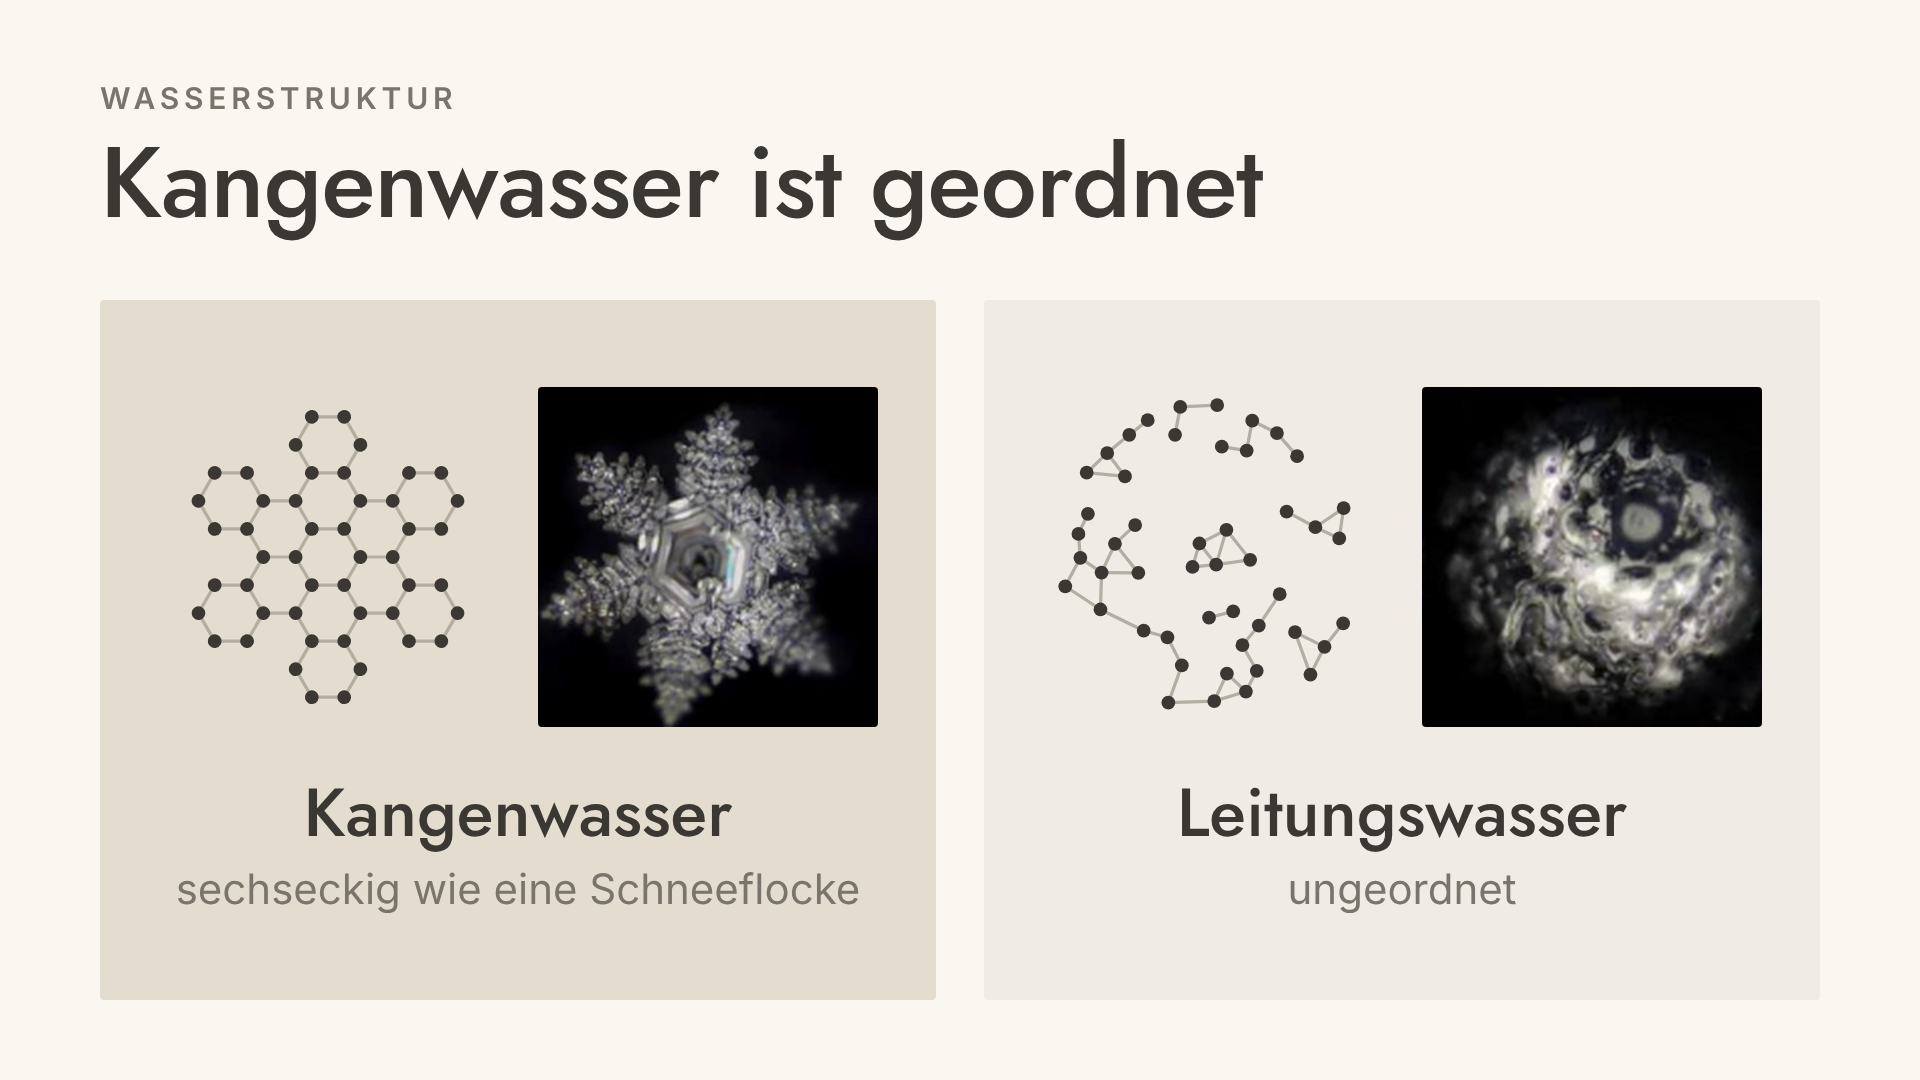
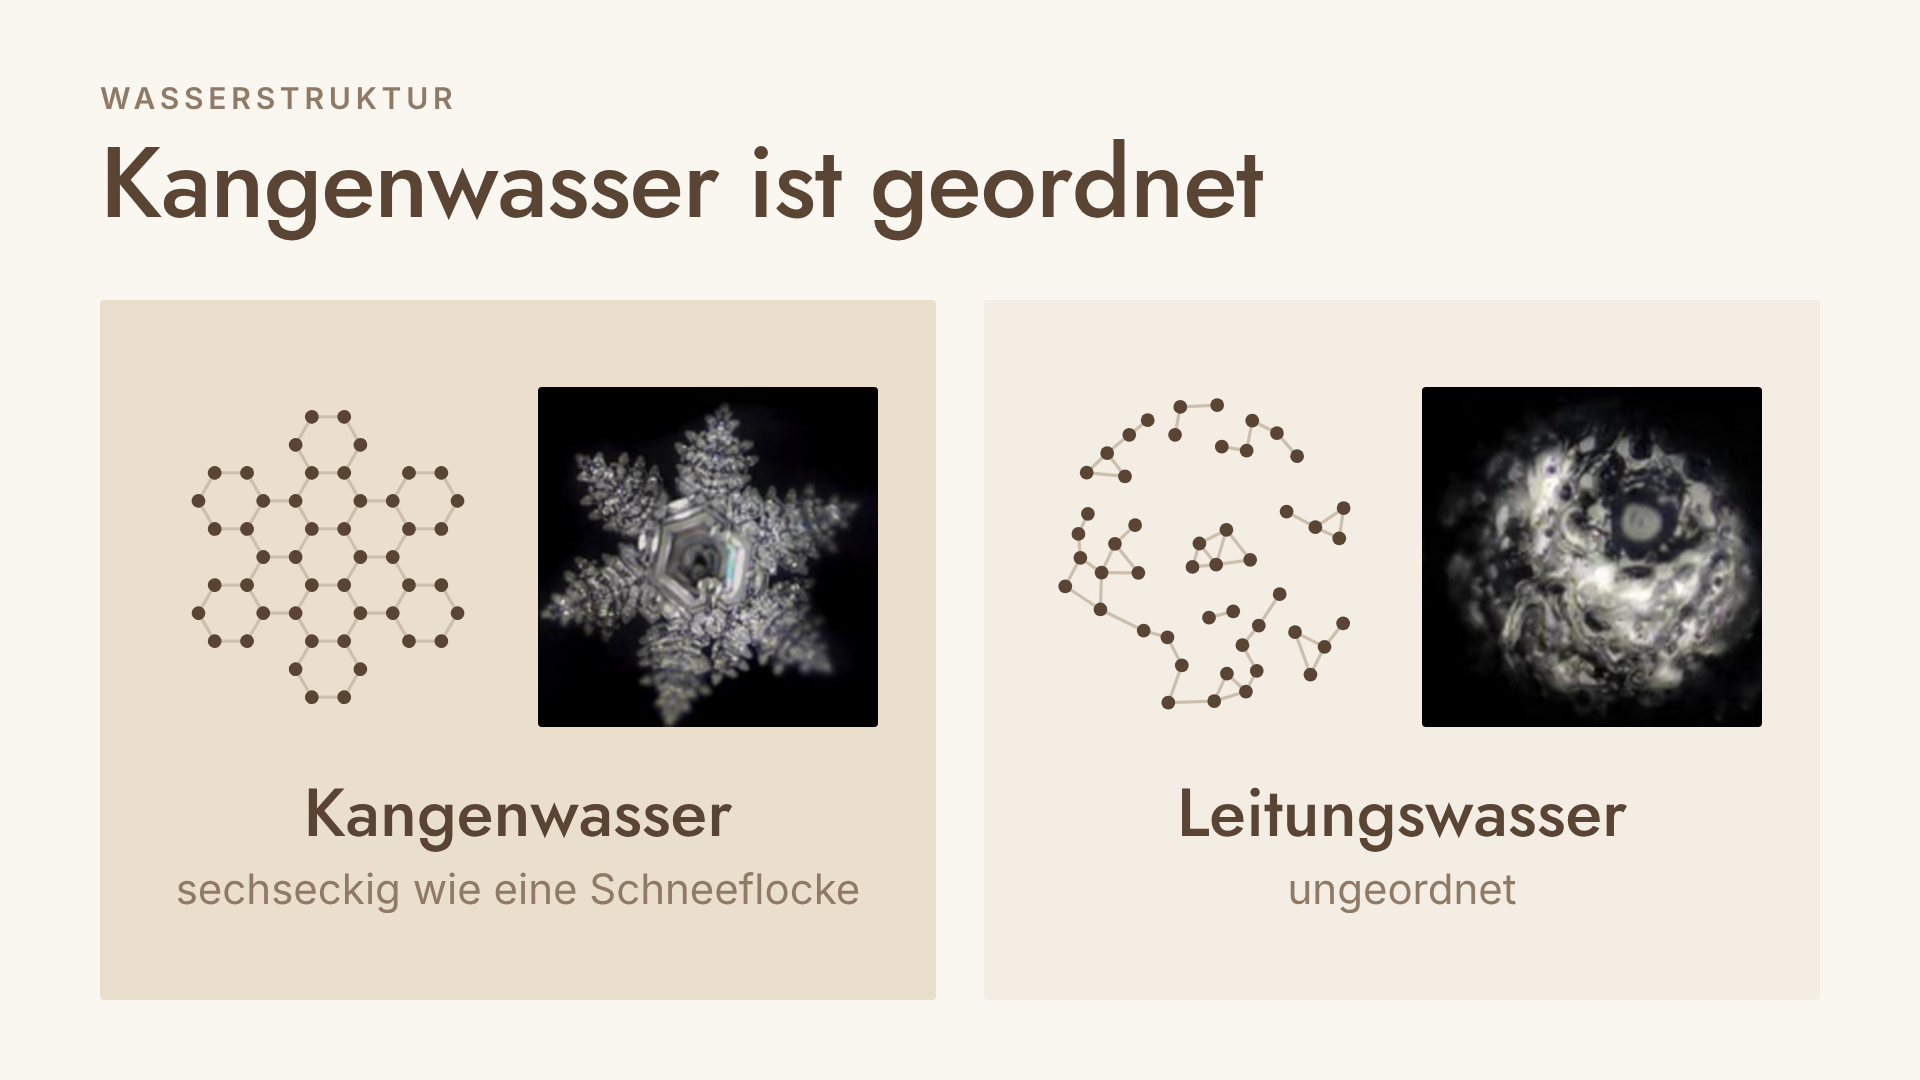
Video-Folien: warme Brauntöne, pH-Folie ruhig mit einheitlichen Größen und senkrechten Linien
Claude-Session: https://claude.ai/code/session_01CR4WzncWcQHYtr53SptXhG

diff --git a/video-folien-k8/folien.html b/video-folien-k8/folien.html
@@ -15,14 +15,14 @@
   @font-face { font-family: "Inter"; font-weight: 500; src: url("schriften/inter-latin-500-normal.woff2") format("woff2"); }
   @font-face { font-family: "Inter"; font-weight: 600; src: url("schriften/inter-latin-600-normal.woff2") format("woff2"); }
 
-  /* Neutrale Farben */
+  /* Warme neutrale Farben */
   :root {
     --grund: #FAF7F0;     /* dezentes Creme, Hintergrund */
-    --flaeche: #F0ECE5;   /* helles Feld */
-    --hervor: #E4DDCF;    /* hervorgehobenes Feld, etwas kräftiger */
-    --text: #3B3834;      /* Haupttext, warmes Dunkelgrau */
-    --text2: #7A756C;     /* Nebentext */
-    --grafik: #B3ADA2;    /* Linien in Zeichnungen */
+    --flaeche: #F3EDE3;   /* helles Feld */
+    --hervor: #EADFCC;    /* hervorgehobenes Feld, warmer Sand */
+    --text: #5A4434;      /* Haupttext, warmes Braun */
+    --text2: #8F7A66;     /* Nebentext, helleres Braun */
+    --grafik: #CDBFAE;    /* Linien in Zeichnungen */
     --rand: 100px;        /* Seitenrand links und rechts */
   }
   * { box-sizing: border-box; margin: 0; padding: 0; }
@@ -56,20 +56,20 @@
   .feld .zusatz { font-size: 42px; margin-top: 16px; color: var(--text2); }
 
   /* ---------- Folie 4: pH-Wert ---------- */
+  /* Alle Zahlen gleich groß (56px), alle Namen gleich groß (36px), alles auf einer Höhe. */
   .ph-skala { position: absolute; left: var(--rand); right: var(--rand); top: 600px; height: 150px;
     display: grid; grid-template-columns: repeat(7, 1fr); gap: 10px; }
   .ph-skala div { display: flex; align-items: center; justify-content: center; border-radius: 4px;
-    font-family: "Jost"; font-weight: 500; font-size: 64px; }
-  .ph-ende { position: absolute; top: 782px; font-weight: 600; font-size: 32px; letter-spacing: .16em; color: var(--text2); }
+    font-family: "Jost"; font-weight: 500; font-size: 56px; }
   .ph-marke { position: absolute; transform: translateX(-50%); text-align: center; white-space: nowrap; }
-  .ph-marke .wert { font-family: "Jost"; font-weight: 500; font-size: 62px; line-height: 1; color: var(--text); }
-  .ph-marke .was { font-size: 36px; font-weight: 500; line-height: 1.15; margin-top: 8px; color: var(--text2); }
-  .ph-marke.oben { bottom: calc(1080px - 480px); }
-  .ph-marke.unten { top: 890px; }
+  .ph-marke .wert { font-family: "Jost"; font-weight: 500; font-size: 56px; line-height: 1; color: var(--text); }
+  .ph-marke .was { font-size: 36px; font-weight: 500; line-height: 1.2; margin-top: 10px; color: var(--text2); }
+  .ph-marke.oben { bottom: calc(1080px - 470px); }
+  .ph-marke.unten { top: 870px; }
   .ph-marke.links { transform: none; text-align: left; }
-  .ph-marke.haupt { background: var(--hervor); padding: 24px 36px 26px; border-radius: 4px; }
-  .ph-marke.haupt .wert { font-size: 84px; }
-  .ph-marke.haupt .was { font-size: 38px; }
+  .ph-marke.haupt { background: var(--hervor); padding: 18px 32px; border-radius: 4px;
+    bottom: calc(1080px - 470px - 18px); }
+  .ph-marke.haupt .was { color: var(--text); }
   .ph-linien { position: absolute; inset: 0; pointer-events: none; }
 </style>
 </head>
@@ -102,28 +102,25 @@
 
 <!-- ===================== FOLIE 4 ===================== -->
 <!-- Skala von 4 bis 10 wie die Farbtabelle beim Tropfentest.
-     Marken: data-ph = Position auf der Skala, data-x = Mitte des Textes in Pixel (von links). -->
+     data-ph = Wert auf der Skala; der Text steht automatisch genau darüber bzw. darunter. -->
 <section class="folie" data-datei="folie-04-ph-wert" id="ph">
-  <div class="dachzeile">pH-WERT</div>
+  <div class="dachzeile">pH-WERT, 7 IST NEUTRAL</div>
   <h1>Kangenwasser ist basisch</h1>
 
   <svg class="ph-linien" viewBox="0 0 1920 1080"></svg>
 
-  <!-- oben: Wasser -->
-  <div class="ph-marke oben" data-ph="4.5" data-x="300"><div class="wert">ca. 4,5</div><div class="was">Abwasser</div></div>
-  <div class="ph-marke oben" data-ph="5.5" data-x="640"><div class="wert">sauer</div><div class="was">Sprudelwasser</div></div>
-  <div class="ph-marke oben" data-ph="7.5" data-x="990" data-von="7" data-bis="8"><div class="wert">7 bis 8</div><div class="was">Leitungswasser</div></div>
-  <div class="ph-marke oben" data-ph="8.5" data-x="1305"><div class="wert">ca. 8,5</div><div class="was">basisches<br>Flaschenwasser</div></div>
-  <div class="ph-marke oben haupt" data-ph="9.5" data-x="1650"><div class="wert">9,5</div><div class="was">Kangenwasser</div></div>
+  <!-- obere Reihe -->
+  <div class="ph-marke oben" data-ph="4.5"><div class="wert">ca. 4,5</div><div class="was">Abwasser</div></div>
+  <div class="ph-marke oben" data-ph="7.5" data-von="7" data-bis="8"><div class="wert">7 bis 8</div><div class="was">Leitungswasser</div></div>
+  <div class="ph-marke oben haupt" data-ph="9.5"><div class="wert">9,5</div><div class="was">Kangenwasser</div></div>
 
   <div class="ph-skala" id="ph-skala"></div>
-  <div class="ph-ende" style="left:var(--rand)">SAUER</div>
-  <div class="ph-ende" id="ph-neutral" style="transform:translateX(-50%)">NEUTRAL</div>
-  <div class="ph-ende" style="right:var(--rand)">BASISCH</div>
 
-  <!-- unten: Körper. Magen liegt links außerhalb der Skala (Pfeil nach links). -->
-  <div class="ph-marke unten links" data-ph="links" data-x="100"><div class="wert">← ca. 1,5</div><div class="was">Magen</div></div>
-  <div class="ph-marke unten" data-ph="7.35" data-x="1420"><div class="wert">7,35</div><div class="was">Blut</div></div>
+  <!-- untere Reihe. Magen liegt links außerhalb der Skala (Pfeil nach links, ohne Linie). -->
+  <div class="ph-marke unten links" data-ph="links"><div class="wert">← ca. 1,5</div><div class="was">Magen</div></div>
+  <div class="ph-marke unten" data-ph="5.5"><div class="wert">sauer</div><div class="was">Sprudelwasser</div></div>
+  <div class="ph-marke unten" data-ph="7.35"><div class="wert">7,35</div><div class="was">Blut</div></div>
+  <div class="ph-marke unten" data-ph="8.5"><div class="wert">ca. 8,5</div><div class="was">Flaschenwasser</div></div>
 </section>
 
 <script>
@@ -182,9 +179,9 @@ document.fonts.ready.then(function () {
   // Farben aus der Original-Farbtabelle (Tropfentest), gemessen
   const VON = 4;
   const FELDER = [
-    { wert: 4,  farbe: "#FDAF05", schrift: "#3B3834" },
-    { wert: 5,  farbe: "#F8C909", schrift: "#3B3834" },
-    { wert: 6,  farbe: "#D5B60E", schrift: "#3B3834" },
+    { wert: 4,  farbe: "#FDAF05", schrift: "#5A4434" },
+    { wert: 5,  farbe: "#F8C909", schrift: "#5A4434" },
+    { wert: 6,  farbe: "#D5B60E", schrift: "#5A4434" },
     { wert: 7,  farbe: "#188647", schrift: "#FFFFFF" },
     { wert: 8,  farbe: "#092384", schrift: "#FFFFFF" },
     { wert: 9,  farbe: "#4958BF", schrift: "#FFFFFF" },
@@ -196,8 +193,8 @@ document.fonts.ready.then(function () {
   const rand = parseFloat(css("--rand")), luecke = 10;
   const zelle = (1920 - 2 * rand - luecke * (FELDER.length - 1)) / FELDER.length;
   const xVon = ph => rand + (ph - VON) * (zelle + luecke) + zelle / 2;
-  document.getElementById("ph-neutral").style.left = xVon(7) + "px";
-  const top = 600, unten = 750;
+  const top = 600, unten = 750;          // Ober- und Unterkante der Skala
+  const linieOben = 502, linieUnten = 852; // wo die senkrechten Linien beginnen
   const svg = folie.querySelector(".ph-linien"), NS = "http://www.w3.org/2000/svg", farbe = css("--text");
   const linie = (x1, y1, x2, y2) => { const l = document.createElementNS(NS, "line");
     Object.entries({ x1, y1, x2, y2, stroke: farbe, "stroke-width": 3, "stroke-linecap": "round" })
@@ -206,21 +203,17 @@ document.fonts.ready.then(function () {
     Object.entries({ cx: x, cy: y, r: 10, fill: farbe, stroke: css("--grund"), "stroke-width": 4 })
       .forEach(([k, v]) => c.setAttribute(k, v)); svg.appendChild(c); };
   folie.querySelectorAll(".ph-marke").forEach(m => {
-    const x = parseFloat(m.dataset.x);
+    if (m.dataset.ph === "links") { m.style.left = rand + "px"; return; }
+    const x = xVon(parseFloat(m.dataset.ph));
     m.style.left = x + "px";
-    if (m.dataset.ph === "links") return;          // ohne Linie
-    const ph = parseFloat(m.dataset.ph), ziel = xVon(ph);
-    const box = m.getBoundingClientRect(), fb = folie.getBoundingClientRect();
     if (m.classList.contains("oben")) {
-      const yText = box.bottom - fb.top + 14;
       if (m.dataset.von) {   // Bereich als Klammer
-        const a = xVon(+m.dataset.von), b = xVon(+m.dataset.bis), y = top - 22;
+        const a = xVon(+m.dataset.von), b = xVon(+m.dataset.bis), y = top - 24;
         linie(a, y, b, y); linie(a, y, a, top - 4); linie(b, y, b, top - 4);
-        linie(ziel, y, x, yText);
-      } else { linie(ziel, top - 4, x, yText); punkt(ziel, top); }
+        linie(x, linieOben, x, y);
+      } else { linie(x, linieOben, x, top - 4); punkt(x, top); }
     } else {
-      const yText = box.top - fb.top - 14;
-      linie(ziel, unten + 4, x, yText); punkt(ziel, unten);
+      linie(x, unten + 4, x, linieUnten); punkt(x, unten);
     }
   });
 }).then(() => { window.fertig = true; });
